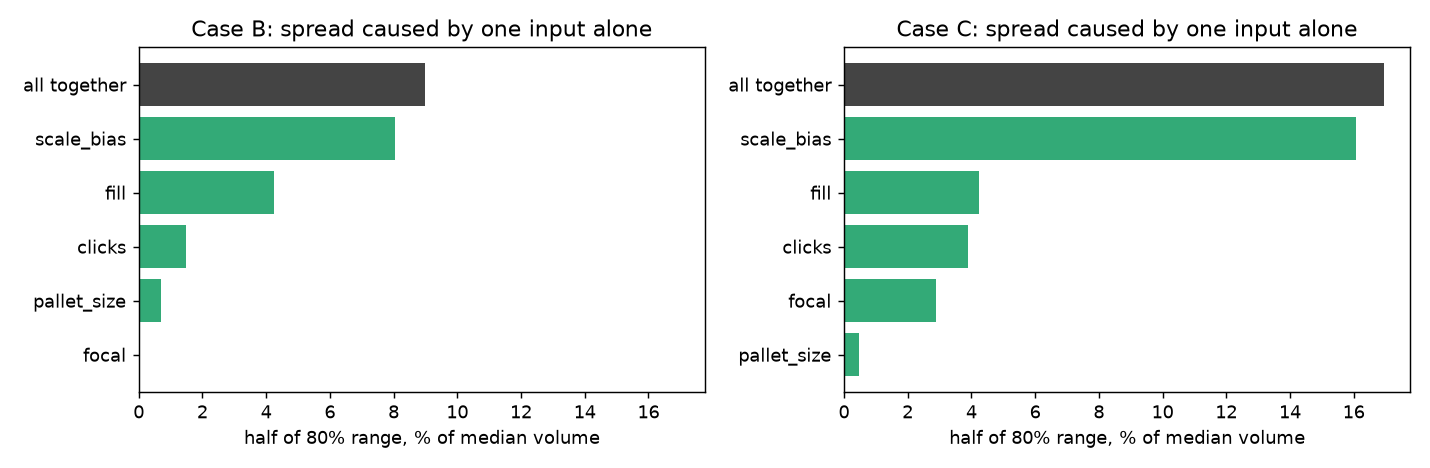
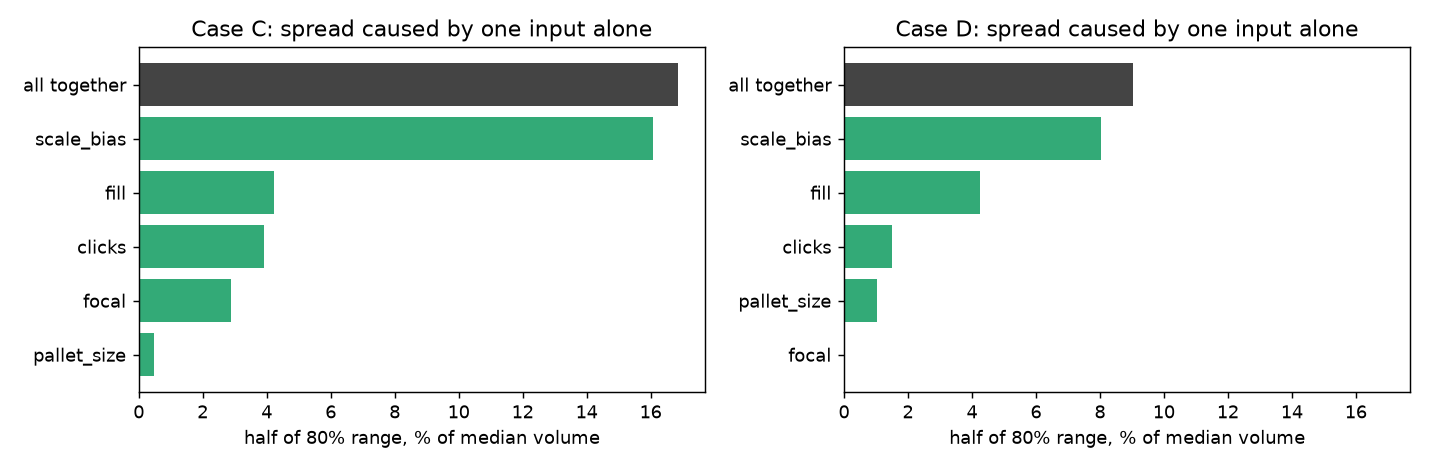
Step 2: scenario D uses the measured height
D = 3 x 0.8 m (counts) x 1.2 m (assumed depth) x measured height (truck
scale, 3213 mm mast), same Monte Carlo inputs as A/B/C. Load only 3.87 m3
(80 %: 3.53-4.23), with pallets 4.29. The 108-crates x catalogue-volume
estimate is removed: about 350 mm per layer does not match the
400x266x310-333 crate, so the crate type is unknown again.
Sensitivity bars now for C and D.

diff --git a/src/uncertainty.py b/src/uncertainty.py
@@ -33,7 +33,8 @@ def simulate(case, vary, width=0.8, scale="truck", seed=1):
     tol = RANGES["tol_m"] if on("pallet_size") else 0.0
     gap = U(RANGES["gap_m"]) if on("pallet_size") else np.full(N, NOMINAL["gap_m"])
     w = width + rng.normal(0, tol, N)
-    L_case = {"A": 1.2 + rng.normal(0, tol, N), "B": 2 * 1.2 + rng.normal(0, tol, N) + rng.normal(0, tol, N) + gap}
+    L_case = {"A": 1.2 + rng.normal(0, tol, N), "B": 2 * 1.2 + rng.normal(0, tol, N) + rng.normal(0, tol, N) + gap,
+              "D": 3 * 0.8 + rng.normal(0, tol, N) + rng.normal(0, tol, N) + rng.normal(0, tol, N) + 2 * gap}   # D: 3 EUR pallets, 800 mm side along the face (from the counts)
     sd_sharp = rng.uniform(2, 5, N) if on("clicks") else np.zeros(N)            # per run: how sloppy are sharp clicks (2-5 px)
     out = {"V": [], "Vp": [], "H": [], "L": []}
     for k, P in load_points().items():
@@ -69,14 +70,10 @@ def scenario_B_from_crates(width=0.8, seed=2):
     H = 4 * rng.uniform(0.29, 0.36, N); fill = rng.uniform(*RANGES["fill"], N)
     V = L * w * H * fill; return {"V": V, "Vp": V + L * w * PALLET_V, "H": H, "L": L}
 
-def scenario_D(seed=3):
-    """Scenario D: 3 EUR pallets in a row with the 800 mm side along the forks (L = 3 x 0.8 m), 3 crates of 400 mm across (W = 1.2 m),
-    4 layers of a 12 x 0.75 L crate 400 x 266 x 310-333 mm (Delbrouck catalogue; crate of the video NOT verified). Image supplies only the counts."""
-    rng = np.random.default_rng(seed)
-    L = 3 * 0.800 + rng.normal(0, 0.003, N) + rng.uniform(0, 0.03, N) * 2; w = 1.2 + rng.normal(0, RANGES["tol_m"], N)
-    H = 4 * rng.uniform(0.310, 0.333, N); fill = rng.uniform(*RANGES["fill"], N); V = L * w * H * fill
-    crates = 108 * 0.400 * 0.266 * rng.uniform(0.310, 0.333, N)           # second estimate: 108 crates x crate volume (no gaps, no fill)
-    return {"V": V, "Vp": V + 3 * 0.8 * 1.2 * PALLET_V, "H": H, "L": L, "V_crates": crates}
+# Scenario D = simulate("D", ..., width=1.2): 3 EUR pallets with the 800 mm side along the face (L = 3 x 0.8 m, from the counts),
+# depth 1.2 m (ASSUMED, not visible), height MEASURED with the truck scale (3213 mm mast), same fill factor and inputs as A/B/C.
+# The earlier "108 crates x catalogue crate volume" estimate is removed: the measured layer height (about 350 mm) does not match
+# the 400 x 266 x 310-333 mm catalogue crate, so the crate type is unknown again.
 
 if __name__ == "__main__":
     ALL = set(INPUTS); res = {}
@@ -89,8 +86,12 @@ if __name__ == "__main__":
         print(f"   height {res[c]['height_m']['median']:.2f} m | length {res[c]['length_m']['median']:.2f} m | per-frame medians (#1086, #1092, #1098): {[round(x, 2) for x in res[c]['per_frame_median_load_only']]}")
     rb = scenario_B_from_crates(); res["B_crates"] = {"load_only": q(rb["V"]), "load_plus_pallets": q(rb["Vp"]), "height_m": q(rb["H"]), "length_m": q(rb["L"])}
     print(f"SCENARIO B from crate count (L 2.4 m, H = 4 x 0.29-0.36 m, no image scale)\n   load only        {fmt(res['B_crates']['load_only'])}\n   load + pallets   {fmt(res['B_crates']['load_plus_pallets'])}")
-    rd = scenario_D(); res["D"] = {"load_only": q(rd["V"]), "load_plus_pallets": q(rd["Vp"]), "height_m": q(rd["H"]), "length_m": q(rd["L"]), "crates_x_crate_volume": q(rd["V_crates"])}
-    print(f"SCENARIO D (3 pallets, 800 mm side along the forks: 2.4 m x 1.2 m, 4 layers of 310-333 mm)\n   load only        {fmt(res['D']['load_only'])}\n   load + pallets   {fmt(res['D']['load_plus_pallets'])}\n   second estimate, 108 crates x crate volume {fmt(res['D']['crates_x_crate_volume'])}")
+    rd = simulate("D", ALL, width=1.2); res["D"] = {"load_only": q(rd["V"].mean(0)), "load_plus_pallets": q(rd["Vp"].mean(0)), "height_m": q(rd["H"].mean(0)), "length_m": q(rd["L"].mean(0)),
+                                                     "per_frame_median_load_only": [float(np.median(v)) for v in rd["V"]]}
+    print(f"SCENARIO D (3 pallets, 800 mm side along the face: 2.4 m x 1.2 m, height MEASURED, truck scale 3213 mm)\n   load only        {fmt(res['D']['load_only'])}\n   load + pallets   {fmt(res['D']['load_plus_pallets'])}")
+    print(f"   height {res['D']['height_m']['median']:.2f} m (80%: {res['D']['height_m']['p10']:.2f}-{res['D']['height_m']['p90']:.2f}) | per-frame medians: {[round(x, 2) for x in res['D']['per_frame_median_load_only']]}")
+    res["D"]["pallet_height_scale"] = q(simulate("D", ALL, width=1.2, scale="pallet")["V"].mean(0))
+    print(f"   D with height from the pallet-height scale -> {fmt(res['D']['pallet_height_scale'])}")
     print("\nScenarios outside the main range (NOT mixed into it):")
     scen = {"B_crates": {"width_1.2": q(scenario_B_from_crates(1.2)["V"])}}
     print(f"  SCENARIO B (crate count): width 1.2 m -> {fmt(scen['B_crates']['width_1.2'])}")
@@ -99,8 +100,8 @@ if __name__ == "__main__":
         print(f"  {c}: width 1.2 m -> {fmt(scen[c]['width_1.2'])} | height from pallet-height scale -> {fmt(scen[c]['pallet_height_scale'])}")
     # ---- which input matters most: let ONE input vary, others fixed; spread = half of the 80% range / median ----
     sens = {}
-    for c in "BC":
-        base = {g: (q(simulate(c, {g})["V"].mean(0))) for g in INPUTS}
+    for c in "BCD":
+        base = {g: (q(simulate(c, {g}, width=1.2 if c == "D" else 0.8)["V"].mean(0))) for g in INPUTS}
         sens[c] = {g: 100 * (b["p90"] - b["p10"]) / 2 / b["median"] for g, b in base.items()}
         sens[c]["all together"] = 100 * (res[c]["load_only"]["p90"] - res[c]["load_only"]["p10"]) / 2 / res[c]["load_only"]["median"]
     print("\nSpread caused by each input alone (half of the 80% range, in % of the median):"); [print(f"  {c}: " + ", ".join(f"{g} {v:.1f}%" for g, v in s.items())) for c, s in sens.items()]
@@ -109,11 +110,11 @@ if __name__ == "__main__":
     json.dump({"main_case": res, "scenarios": scen, "sensitivity_pct": sens, "ranges": RANGES, "runs": N}, open("outputs/uncertainty.json", "w"), indent=1)
     # ---- figures ----
     fig, ax = plt.subplots(1, 2, figsize=(11, 3.6), sharex=True)
-    for a, c in zip(ax, "BC"):
+    for a, c in zip(ax, "CD"):
         s = sens[c]; ks = sorted(s, key=s.get); a.barh(ks, [s[k] for k in ks], color=["#444" if k == "all together" else "#3a7" for k in ks]); a.set_title(f"Case {c}: spread caused by one input alone"); a.set_xlabel("half of 80% range, % of median volume")
     plt.tight_layout(); plt.savefig("outputs/uncertainty_bars.png", dpi=130); plt.close()
     fig, a = plt.subplots(figsize=(8, 3.8))
-    for lab, v, col in (("A one EUR pallet (excluded)", simulate("A", ALL)["V"].mean(0), "#c63"), ("C: clicks + truck geometry", simulate("C", ALL)["V"].mean(0), "#3a7"), ("B: 2 pallets in a row, 8 x 300 mm crates (2.4 m x 0.8 m)", scenario_B_from_crates()["V"], "#37a"), ("D: 3 pallets (2.4 m x 1.2 m)", scenario_D()["V"], "#a37")):
+    for lab, v, col in (("A one EUR pallet (excluded)", simulate("A", ALL)["V"].mean(0), "#c63"), ("C: clicks + truck geometry", simulate("C", ALL)["V"].mean(0), "#3a7"), ("B: 2 pallets in a row, 8 x 300 mm crates (2.4 m x 0.8 m)", scenario_B_from_crates()["V"], "#37a"), ("D: 3 pallets (2.4 m x 1.2 m), measured height", rd["V"].mean(0), "#a37")):
         a.hist(v, bins=80, alpha=0.6, color=col, label=lab)
     a.set_xlabel("load-only volume, m3 (width 0.8 m for A, B, C; 1.2 m for D)"); a.set_ylabel("runs out of 10,000"); a.set_ylim(0, a.get_ylim()[1] * 1.35); a.legend(loc="upper center", ncol=2, fontsize=8); plt.tight_layout(); plt.savefig("outputs/volume_hist.png", dpi=130); plt.close()
     fig, a = plt.subplots(figsize=(6, 3.4)); pf = simulate("C", ALL)["V"]

diff --git a/src/make_results.py b/src/make_results.py
@@ -4,7 +4,7 @@ u, m, nf = (json.load(open(f"outputs/{n}.json")) for n in ("uncertainty", "measu
 r3 = lambda d: {"median": round(d["median"], 2), "p10": round(d["p10"], 2), "p90": round(d["p90"], 2)}   # 80 % range = p10..p90
 res = {
     "note": "D (3 pallets) is most likely, not proven: the number of pallets is NOT verified. Volumes in m3, load only, 80 % range (p10-p90) INSIDE each scenario.",
-    "scenarios_load_only_m3": {{"A": "A one EUR pallet (excluded)", "B": "B two pallets, height from image", "B_crates": "B two pallets, height from crates", "C": "C length from clicks", "D": "D three pallets 2.4 x 1.2 m"}[k]: r3(v["load_only"]) for k, v in u["main_case"].items()},
+    "scenarios_load_only_m3": {{"A": "A one EUR pallet (excluded)", "B": "B two pallets, height from image", "B_crates": "B two pallets, height from crates", "C": "C length from clicks", "D": "D three pallets 2.4 x 1.2 m, measured height"}[k]: r3(v["load_only"]) for k, v in u["main_case"].items()},
     "per_frame_height_m_truck_scale": {k: round(v["H_m"]["truck"], 3) for k, v in m.items()} | {k: round(v["H_left_m"], 3) for k, v in nf.items()},
     "per_frame_height_m_pallet_scale": {k: round(v["H_m"]["pallet144"], 3) for k, v in m.items()},
     "length_lower_bound_m_frame_1068": round(nf["1068"]["Lx_lower_bound_m"], 2),
